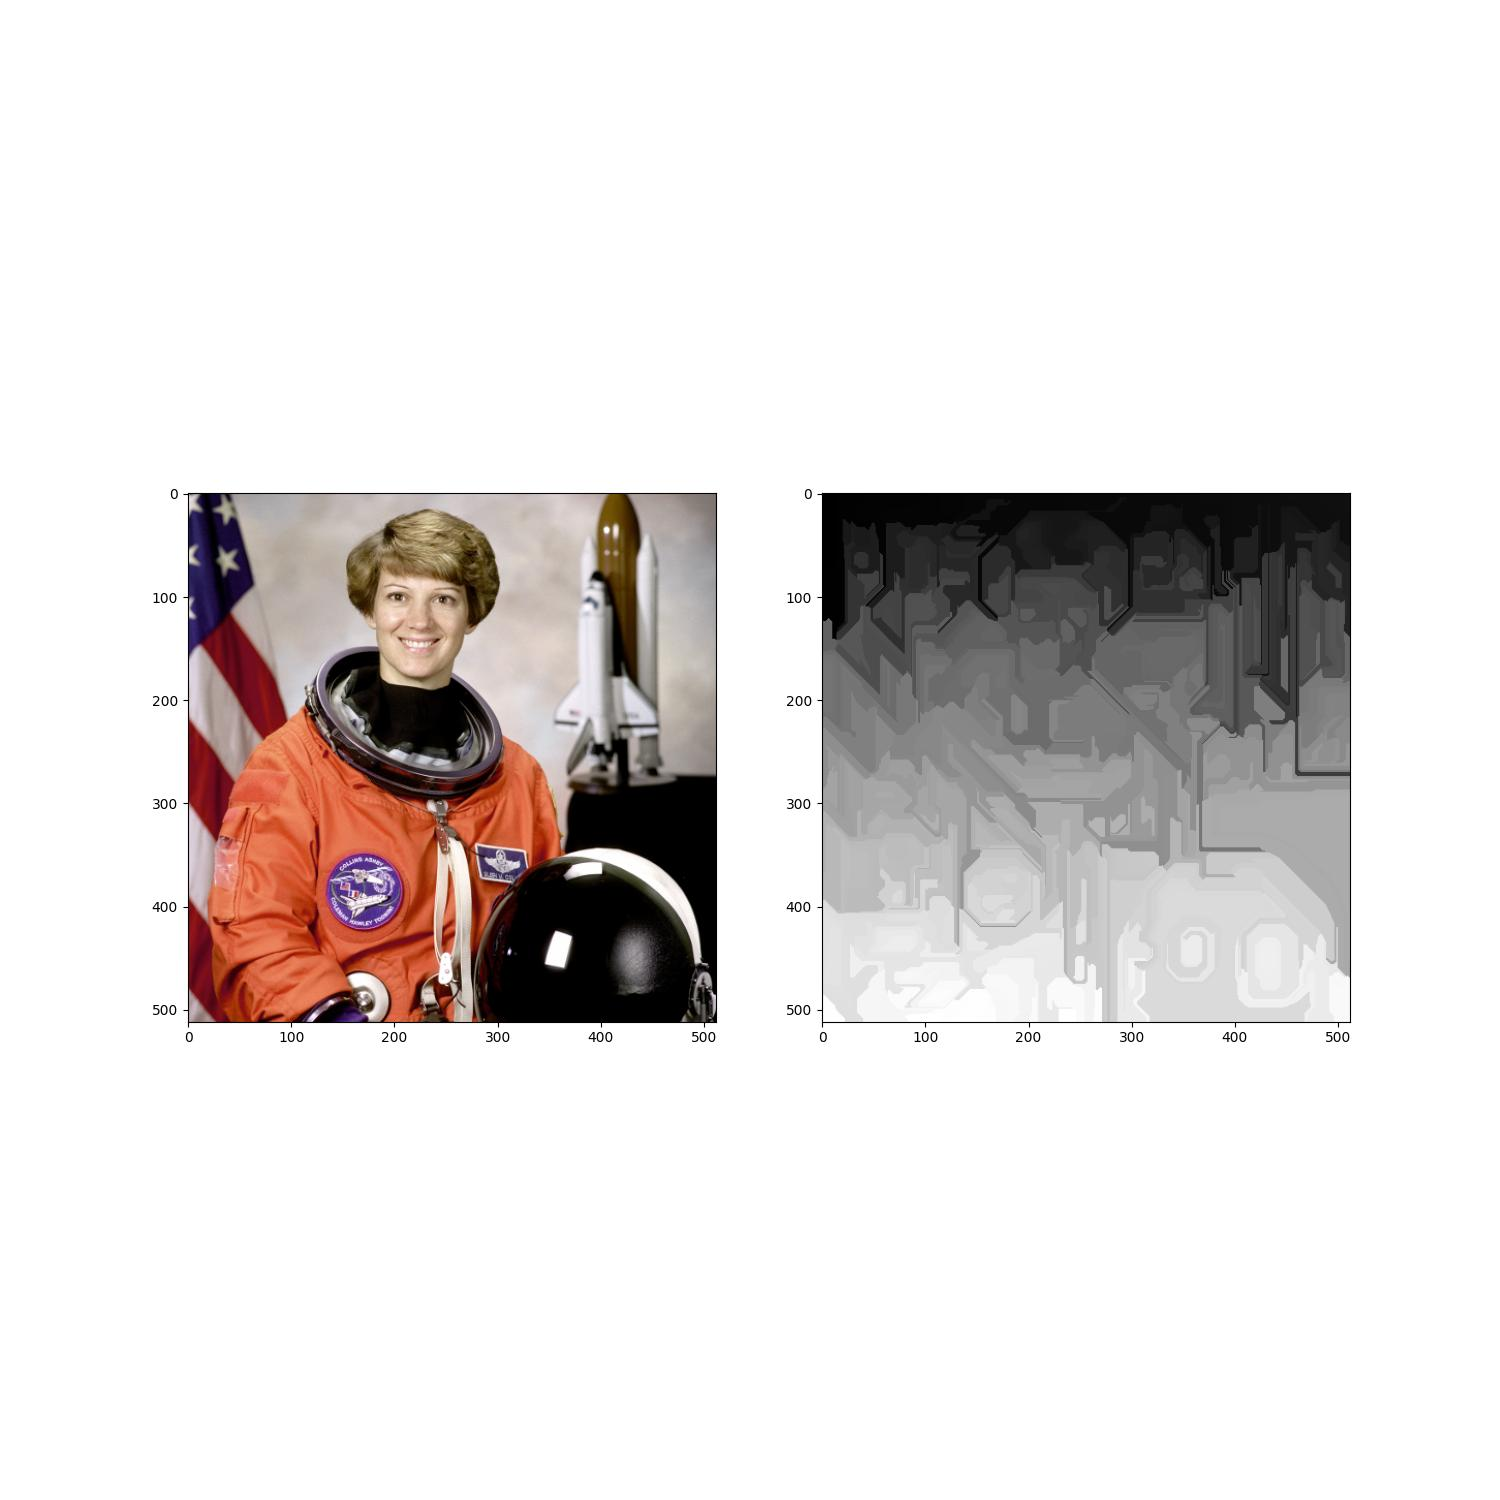
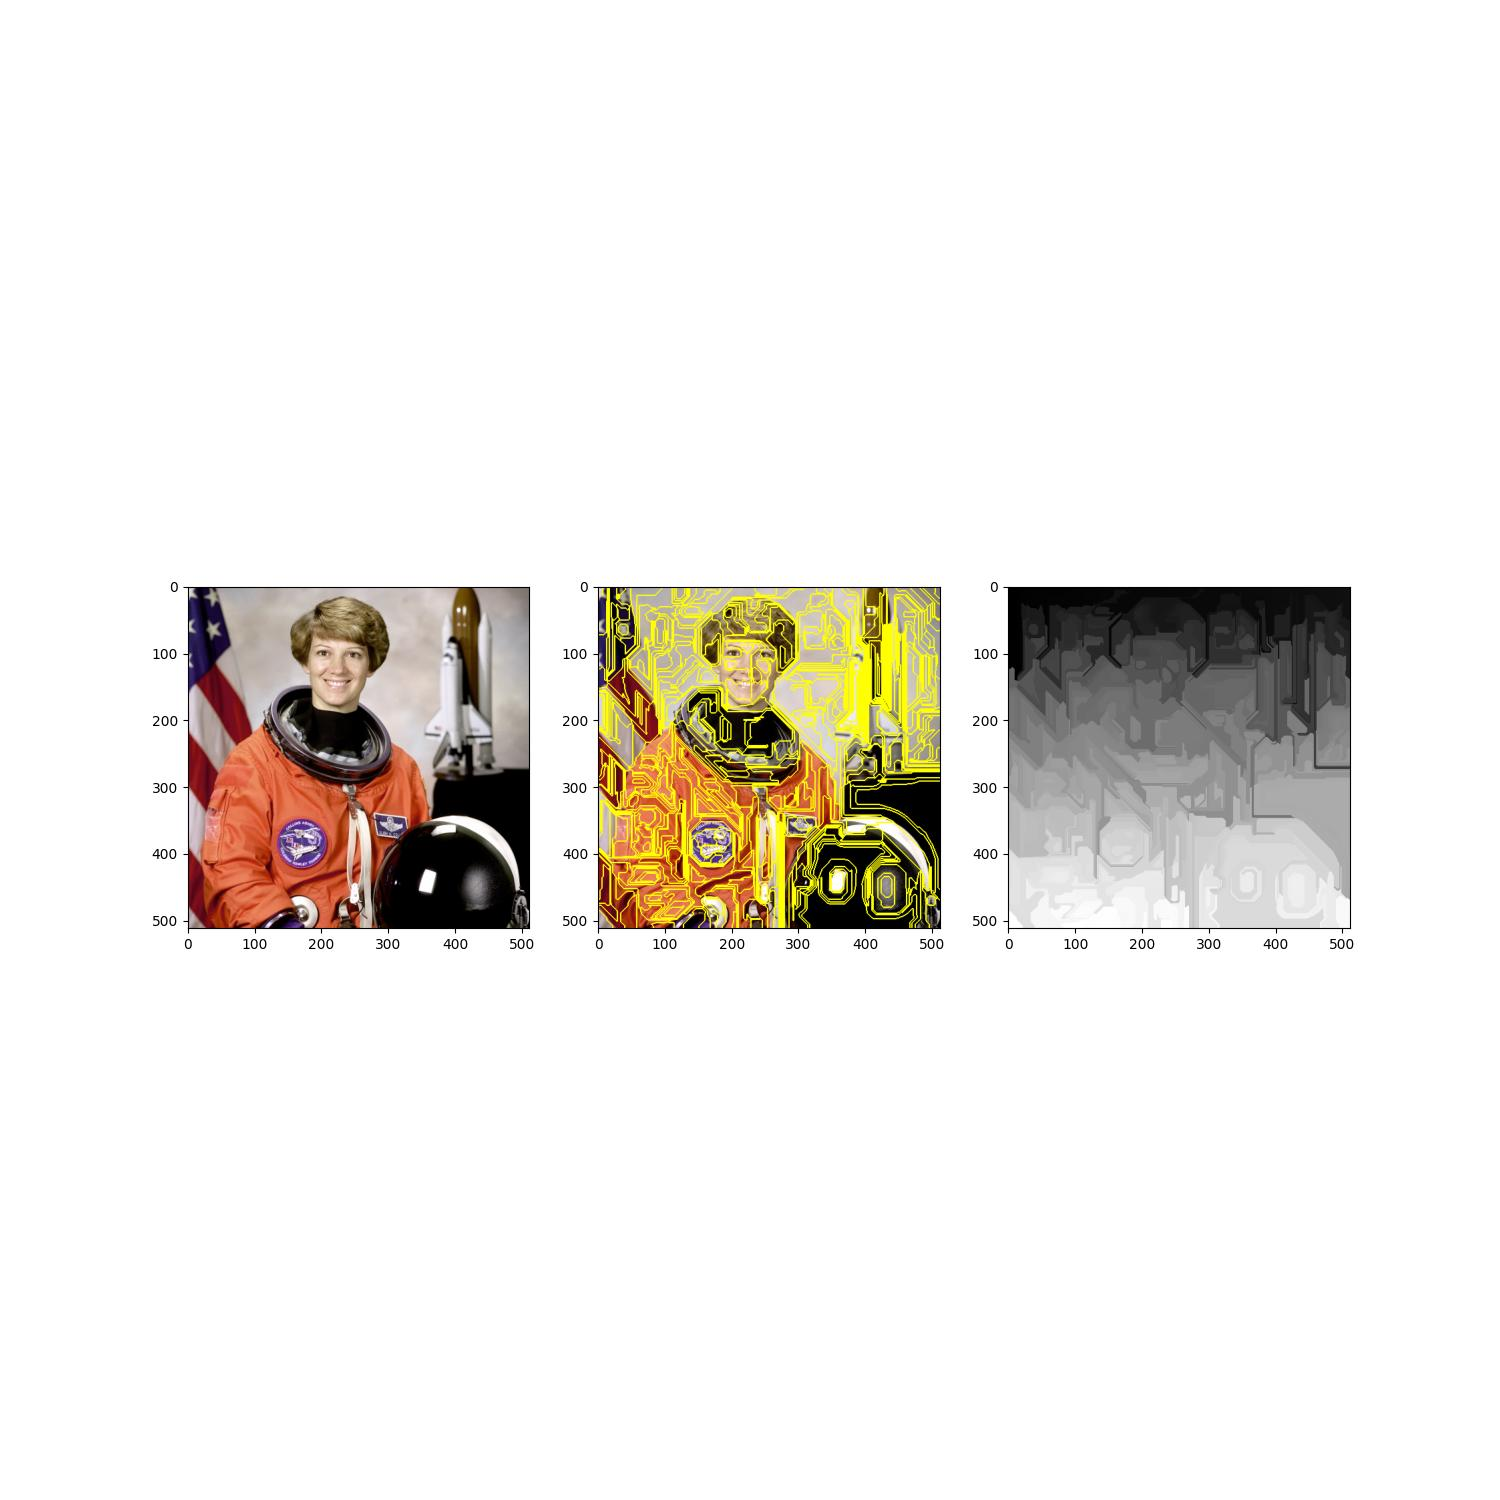
tweak: tweaked fezenszwalb method to plot three images instead of two

Changed region(s): [[0.092, 0.3067, 0.92, 0.7053], [0.6747, 0.6747, 0.7053, 0.7053]]

diff --git a/trailhead/VC/scikit-image/src/astronaut.py b/trailhead/VC/scikit-image/src/astronaut.py
@@ -85,12 +85,12 @@ class Astronaut:
         self.savefig(fname)
 
     def felzenszwalb(self, 
-            fname: str='astro_fezenszwalb.jpg', mark: bool=False) -> None:
+            fname: str='astro_fezenszwalb.jpg') -> None:
         _segs: Any = skseg.felzenszwalb(self.astronaut, 
                                         scale=2, sigma=5, min_size=100)
-        if mark:
-            _segs = skseg.mark_boundaries(self.astronaut, _segs)
-        axes: list[plt.Axes] = self.fig.subplots(1, 2)
+        marked_segs = skseg.mark_boundaries(self.astronaut, _segs)
+        axes: list[plt.Axes] = self.fig.subplots(1, 3)
         axes[0].imshow(self.astronaut)
-        axes[1].imshow(_segs, cmap='gray')
+        axes[1].imshow(marked_segs)
+        axes[2].imshow(_segs, cmap='gray')
         self.savefig(fname)

diff --git a/trailhead/VC/OpenCV/main.py b/trailhead/VC/OpenCV/main.py
@@ -2,8 +2,7 @@ from src.pimagedit import Simp
 
 def main() -> None:
 
-    ''' This main functions execute tests of some methods in the SIMP
-    class. Still incomplete since the class is still a wip '''
+    '''This main functions execute tests of some methods in the Simp class.'''
 
     # Testing methods
     imgedit = Simp(img='resources/ponte.jpg', savelocation='exports')
